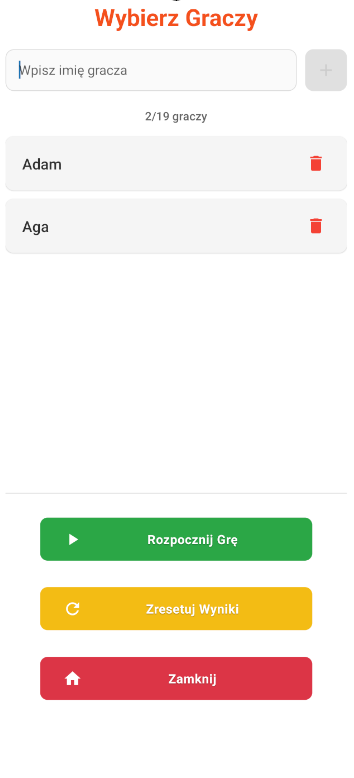
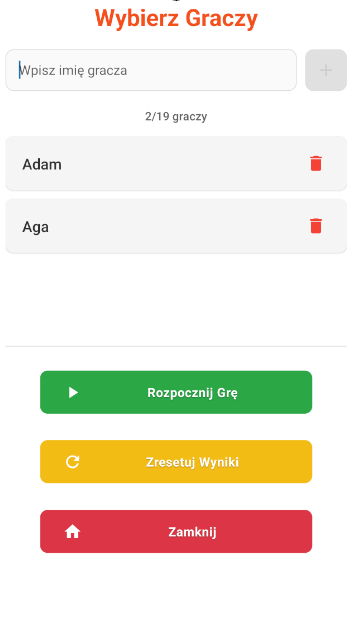
docs: uniform screenshot proportions and 2+3 layout
All screenshots are now 354x631. Longer screens were trimmed in empty areas (players: blank list space; categories: top margin and one repeated grid row) so no buttons are lost.

diff --git a/README.md b/README.md
@@ -8,11 +8,16 @@ Players take turns acting out a phrase while the others try to guess it – the 
 > The app's interface and phrase database are in Polish.
 
 <p align="center">
-  <img src="docs/screenshots/homepage.png" width="180" alt="Home screen" />
-  <img src="docs/screenshots/players.png" width="180" alt="Player selection" />
-  <img src="docs/screenshots/categories.png" width="180" alt="Category selection" />
-  <img src="docs/screenshots/game.png" width="180" alt="Game round" />
-  <img src="docs/screenshots/quickgame.png" width="180" alt="Quick game" />
+  <img src="docs/screenshots/homepage.png" width="260" alt="Home screen" />
+  &nbsp;&nbsp;
+  <img src="docs/screenshots/game.png" width="260" alt="Game round" />
+</p>
+<p align="center">
+  <img src="docs/screenshots/players.png" width="200" alt="Player selection" />
+  &nbsp;
+  <img src="docs/screenshots/categories.png" width="200" alt="Category selection" />
+  &nbsp;
+  <img src="docs/screenshots/quickgame.png" width="200" alt="Quick game" />
 </p>
 
 ## Features
